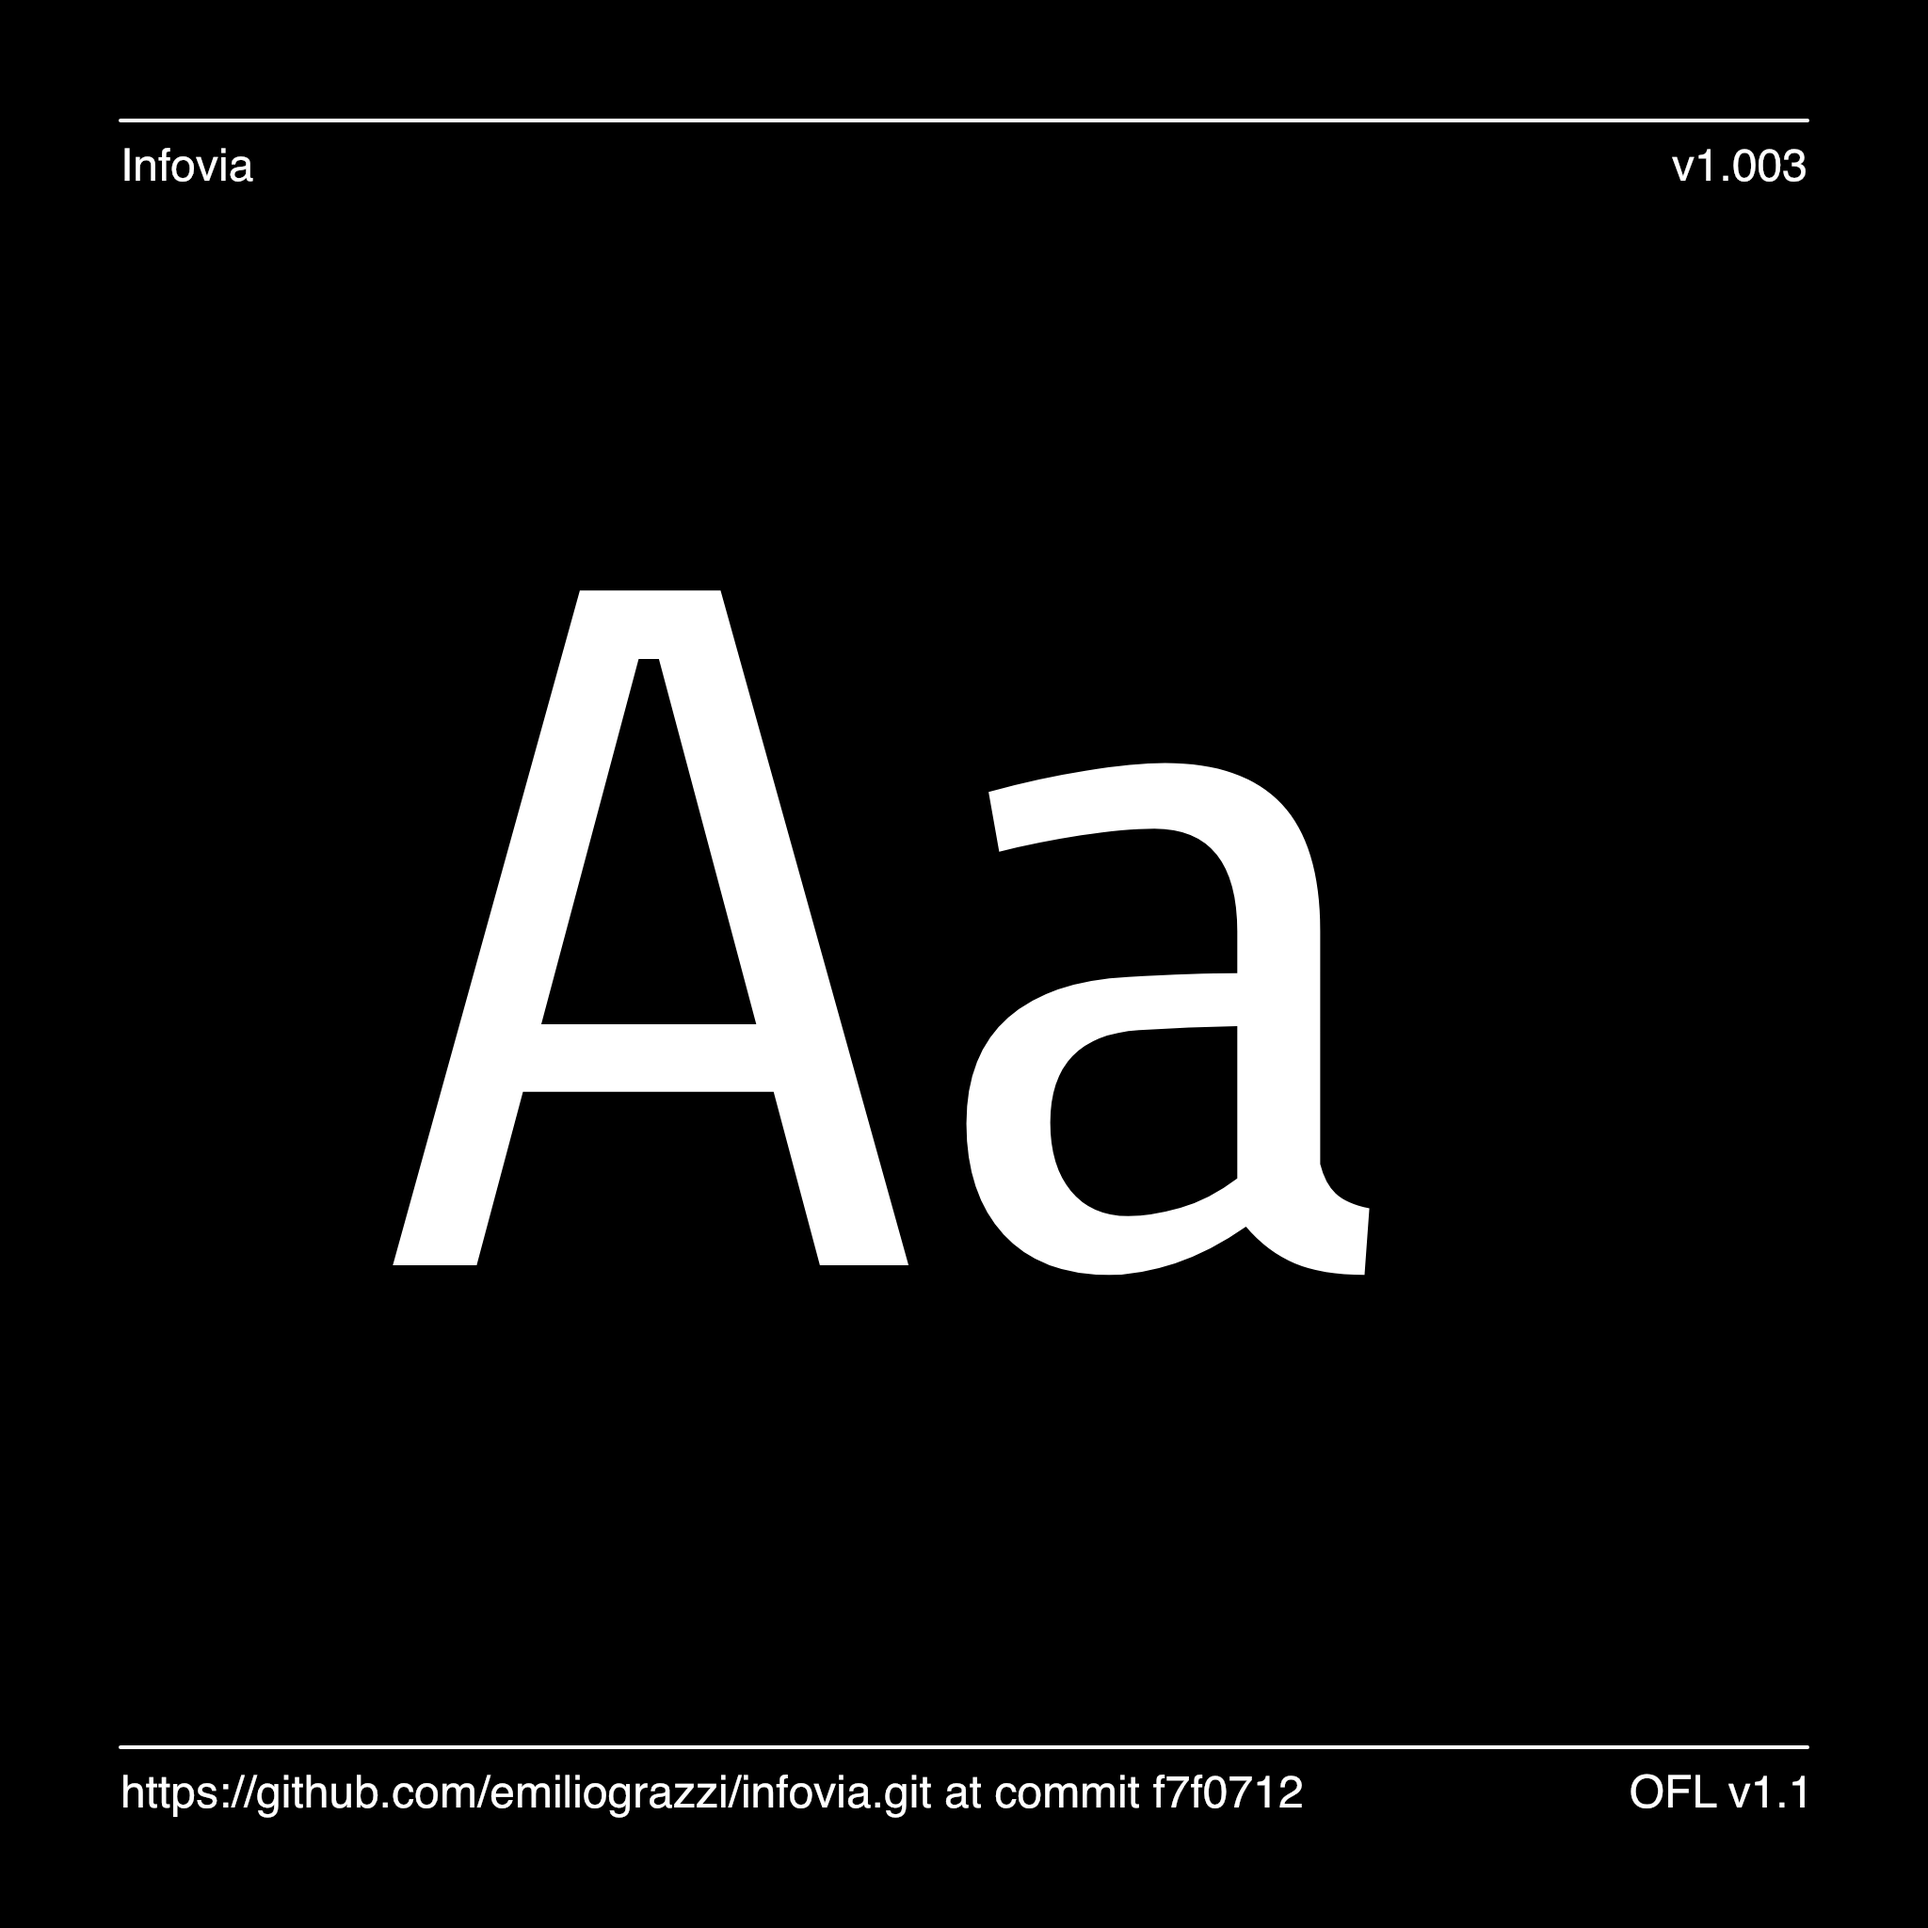
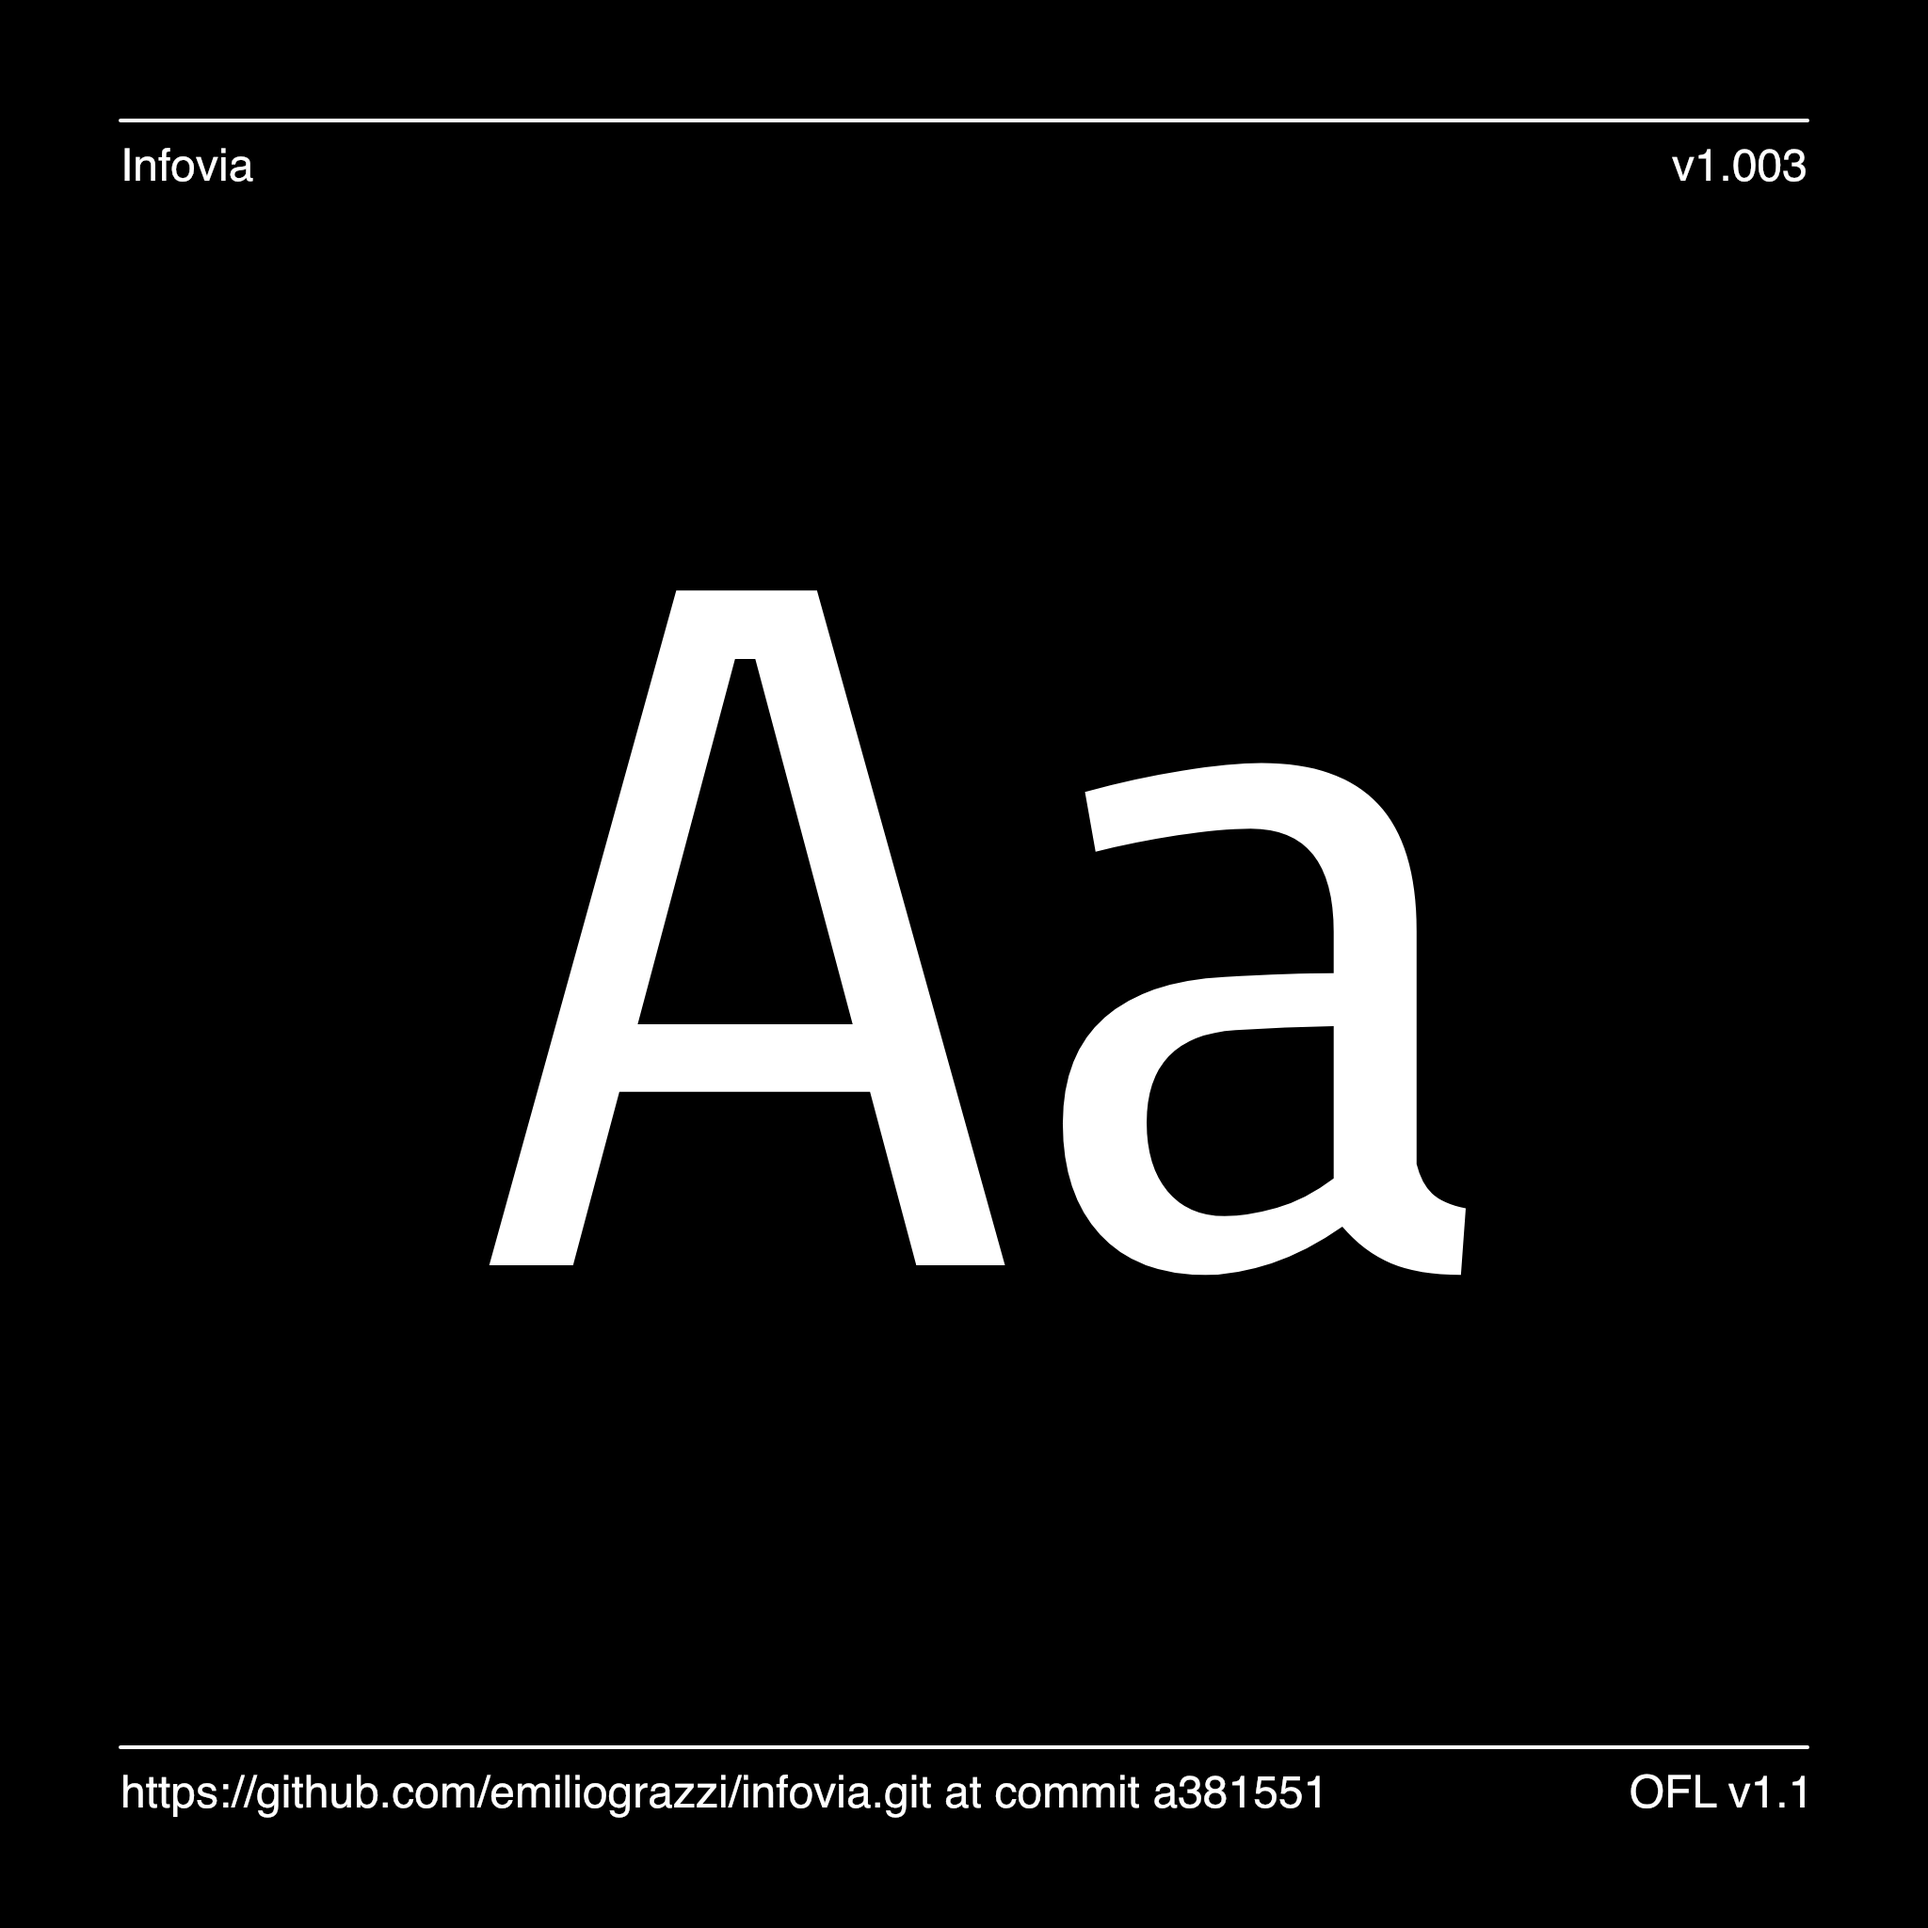
update image1 and README

Changed region(s): [[0.1875, 0.2812, 0.7812, 0.6875], [0.5938, 0.9062, 0.6875, 0.9375]]

diff --git a/documentation/image1.py b/documentation/image1.py
@@ -22,7 +22,7 @@ AUXILIARY_FONT = "Helvetica"
 AUXILIARY_FONT_SIZE = 48
 BIG_TEXT = "Aa"
 BIG_TEXT_FONT_SIZE = 1024
-BIG_TEXT_SIDE_MARGIN = MARGIN * 3.1
+BIG_TEXT_SIDE_MARGIN = MARGIN * 3.9
 BIG_TEXT_BOTTOM_MARGIN = MARGIN * 5.5
 GRID_VIEW = False # Change this to "True" for a grid overlay
 

diff --git a/README.md b/README.md
@@ -1,40 +1,3 @@
-----
-
-## Setting up your font
-
-* **New repositories.** Hit the green button above ("Use this template") to create your own repository. We then need to update the workflow permissions. Go to Settings > Actions > General > Workflow permissions and enable "Read and write permissions". Finally, rerun the failed github action by going to Actions > Initial commit > Re-run jobs > Re-run all jobs.
-
-*Please note that a Github Action job will be executed once you've created the repository which will populate the readme and build dependencies. This job will fail because it was executed with incorrect permissions. The steps above will fix the permissions issue and rerun the job. Please wait for the job to complete and pass before pulling the repo to your local system.*
-
-* **Updating a repository.** To update your font repository to bring in the latest best-practices from the Google Fonts Project Template, run `make update-project-template` from the command line.
-
-* Replace the font sources in the `sources` directory with your own font sources. These sources may be either in Glyphs format or UFO/Designspace formats.\
-\
-Unlike many open source distributors, Google Fonts is **curated**. Fonts shipped to the platform have to match the [Google Fonts Specifications](https://github.com/googlefonts/gf-docs/tree/main/Spec). Please read them carefully.\
-\
-*(The sample font provided in this template is [Rubik](https://github.com/googlefonts/rubik/) by Philipp Hubert, Sebastian Fischer, and contributors.)*
-
-* Then reference the sources in the file `sources/config.yaml`, as well as making any other changes you would like to make based on the instructions in the [Google Fonts Builder documentation](https://github.com/googlefonts/gftools/blob/main/Lib/gftools/builder/__init__.py).
-
-
-* Add yourself to the `AUTHORS.txt` and `CONTRIBUTORS.txt` files.
-
-* Update the first line of the OFL.txt (year and project name). Update also the Copyright string in the sources, it has to be the same as the OFL.txt. The `.glyphs` file in this repo gives you required base charset and font info.
-
-* Finally, add and commit any files you have modified (i.e. `README.md`, `AUTHORS.txt`, `CONTRIBUTORS.txt`, the font sources, and `sources/config.yaml`) to git, then push to GitHub. Please be aware that Github Actions may take a few minutes to build your font family. It is worthwhile inspecting the progress in the "Actions" tab.
-
-* Fill out `DESCRIPTION.en_us.html` with a description about your font.
-
-* If Github Actions has successfully built the family, you will find the font binaries in the Actions tab. The official Github Actions documentation provides further [information](https://docs.github.com/en/actions/managing-workflow-runs/downloading-workflow-artifacts).
-
-* Once you are happy with your font, add promotional assets in the documentation directory. Make it different from the pic you use in this README. You can get inspired by existing tweet @googlefonts like: https://twitter.com/googlefonts/status/1415562928657416192.
-
-* Google Fonts uses Github Releases to manage font families. If you feel your font project has hit a milestone, you must create a new release for it. In order to do this, go to the releases page and hit the "Draft a new release button". You must provide a tag number and title which can only be a decimal number e.g 0.100, 1.000 etc. For the body text, mention what has changed since the last release. Once you are done, hit the "Publish release" button. Here is an example which fulfills the requirements, https://github.com/m4rc1e/test-ufr-family/releases/tag/2.019. For more info regarding Github release, please see the official Github Release [documentation](https://docs.github.com/en/repositories/releasing-projects-on-github/managing-releases-in-a-repository). **Please note that Github Actions must be able to build the fonts before you can make a release. Once you have made a release, the fonts and tests assets will be attached to the release automatically. This may take a while since the fonts and tests will be built from scratch so please be patient.**
-
-* Remove this section from the readme. :-)
-----
-
-
 # My Font
 
 [![][Fontbakery]](https://emiliograzzi.github.io/infovia/fontbakery/fontbakery-report.html)

diff --git a/SETUP.md b/SETUP.md
@@ -1,0 +1,34 @@
+----
+
+## Setting up your font
+
+* **New repositories.** Hit the green button above ("Use this template") to create your own repository. We then need to update the workflow permissions. Go to Settings > Actions > General > Workflow permissions and enable "Read and write permissions". Finally, rerun the failed github action by going to Actions > Initial commit > Re-run jobs > Re-run all jobs.
+
+*Please note that a Github Action job will be executed once you've created the repository which will populate the readme and build dependencies. This job will fail because it was executed with incorrect permissions. The steps above will fix the permissions issue and rerun the job. Please wait for the job to complete and pass before pulling the repo to your local system.*
+
+* **Updating a repository.** To update your font repository to bring in the latest best-practices from the Google Fonts Project Template, run `make update-project-template` from the command line.
+
+* Replace the font sources in the `sources` directory with your own font sources. These sources may be either in Glyphs format or UFO/Designspace formats.\
+\
+Unlike many open source distributors, Google Fonts is **curated**. Fonts shipped to the platform have to match the [Google Fonts Specifications](https://github.com/googlefonts/gf-docs/tree/main/Spec). Please read them carefully.\
+\
+*(The sample font provided in this template is [Rubik](https://github.com/googlefonts/rubik/) by Philipp Hubert, Sebastian Fischer, and contributors.)*
+
+* Then reference the sources in the file `sources/config.yaml`, as well as making any other changes you would like to make based on the instructions in the [Google Fonts Builder documentation](https://github.com/googlefonts/gftools/blob/main/Lib/gftools/builder/__init__.py).
+
+
+* Add yourself to the `AUTHORS.txt` and `CONTRIBUTORS.txt` files.
+
+* Update the first line of the OFL.txt (year and project name). Update also the Copyright string in the sources, it has to be the same as the OFL.txt. The `.glyphs` file in this repo gives you required base charset and font info.
+
+* Finally, add and commit any files you have modified (i.e. `README.md`, `AUTHORS.txt`, `CONTRIBUTORS.txt`, the font sources, and `sources/config.yaml`) to git, then push to GitHub. Please be aware that Github Actions may take a few minutes to build your font family. It is worthwhile inspecting the progress in the "Actions" tab.
+
+* Fill out `DESCRIPTION.en_us.html` with a description about your font.
+
+* If Github Actions has successfully built the family, you will find the font binaries in the Actions tab. The official Github Actions documentation provides further [information](https://docs.github.com/en/actions/managing-workflow-runs/downloading-workflow-artifacts).
+
+* Once you are happy with your font, add promotional assets in the documentation directory. Make it different from the pic you use in this README. You can get inspired by existing tweet @googlefonts like: https://twitter.com/googlefonts/status/1415562928657416192.
+
+* Google Fonts uses Github Releases to manage font families. If you feel your font project has hit a milestone, you must create a new release for it. In order to do this, go to the releases page and hit the "Draft a new release button". You must provide a tag number and title which can only be a decimal number e.g 0.100, 1.000 etc. For the body text, mention what has changed since the last release. Once you are done, hit the "Publish release" button. Here is an example which fulfills the requirements, https://github.com/m4rc1e/test-ufr-family/releases/tag/2.019. For more info regarding Github release, please see the official Github Release [documentation](https://docs.github.com/en/repositories/releasing-projects-on-github/managing-releases-in-a-repository). **Please note that Github Actions must be able to build the fonts before you can make a release. Once you have made a release, the fonts and tests assets will be attached to the release automatically. This may take a while since the fonts and tests will be built from scratch so please be patient.**
+
+* Remove this section from the readme. :-)
